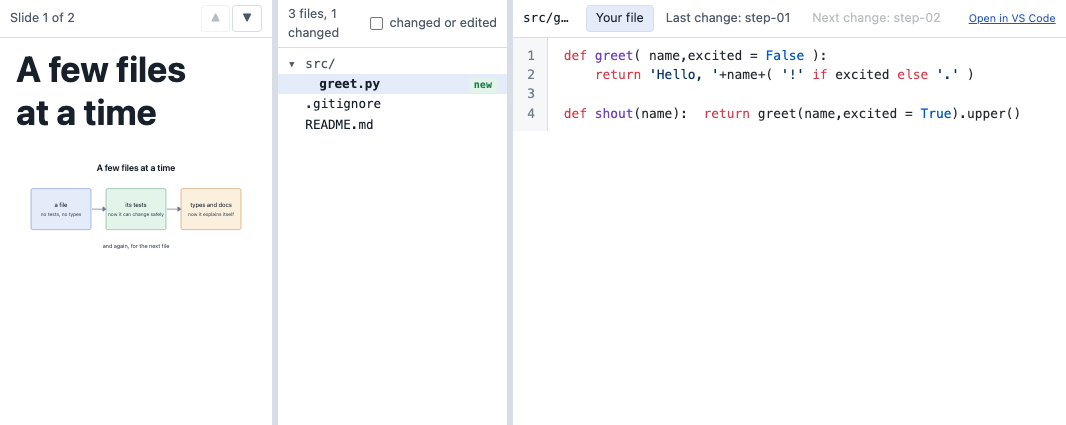
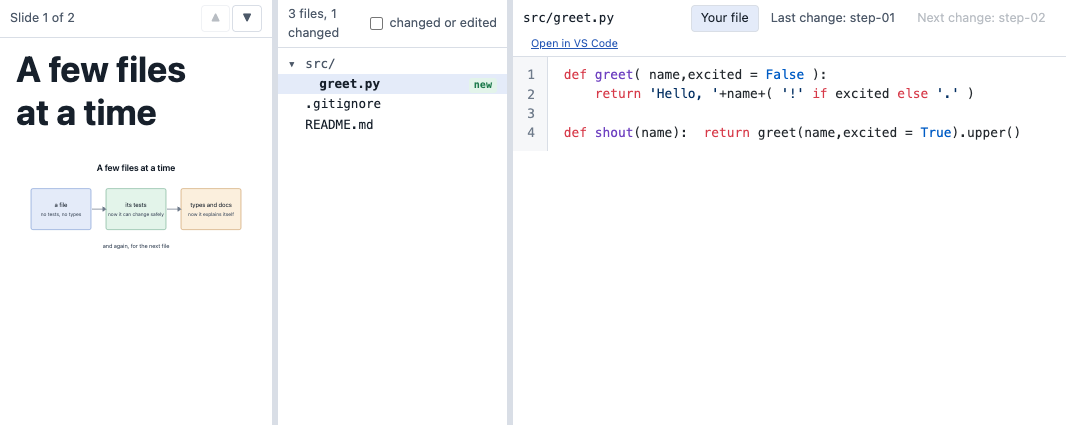
A tutorial's moves go in order, and back is the step's Start
A step starts with just setup, so any step is a safe place to land. A move has no setup of its own: it
builds on what the moves before it did to the environment, so a skip would miss that. So the moves now go
forward one at a time, in both modes, and the server refuses a skip. The way back is the step's Start, then
just setup: the back arrow, Shift+Left and Start check out the tag before the step, after asking about
edits. The moves after the next one are greyed and do nothing; the next move has the one bright button, and
the hints say what to do. Watch mode warns that edits are set aside at the next Show.

Also: the page checks whether the files match on every edits event, the reader's tabs wrap so the path
stays readable, and the docs describe the order.

Coded using Claude

Changed region(s): [[0.4953, 0.0, 0.9906, 0.3365]]

diff --git a/src/timewalk/static/app.js b/src/timewalk/static/app.js
@@ -168,40 +168,64 @@ function drawMoves() {
   row.hidden = !moves.length;
   if (!moves.length) return;
   const watch = mode === "watch";
+  const reached = movesReached();
   const label = document.createElement("span");
   label.className = "label";
   label.textContent = "Moves";
-  const here = moveOnShow();
-  const step = (delta) => (watch ? goMove(Math.min(Math.max((move ?? 0) + delta, 0), moves.length))
-                                 : markDone(Math.min(Math.max(done + delta, 0), moves.length)));
+  // Back goes only to the step's Start, where just setup makes the environment again; forward goes one move at a time.
   const back = document.createElement("button");
   back.className = "nav";
   back.innerHTML = "&#9664;";
-  back.title = watch ? "Show the move before (Shift+Left)" : "Back one move (Shift+Left)";
-  back.disabled = watch ? !move : !done;
-  back.onclick = () => step(-1);
+  back.title = "Back to the step's Start, then run just setup (Shift+Left)";
+  back.disabled = !reached && (watch ? !move : true);
+  back.onclick = () => toStart();
   const forward = document.createElement("button");
   forward.className = "nav";
   forward.innerHTML = "&#9654;";
   forward.title = watch ? "Show the next move's commit (Shift+Right)" : "Mark this move done, and go to the next (Shift+Right)";
-  forward.disabled = watch ? move >= moves.length : done >= moves.length;
-  forward.onclick = () => step(1);
-  const buttons = [{ name: "Start", subject: "Before the first move of this step" }, ...moves].map((m, number) => {
+  forward.disabled = reached >= moves.length;
+  forward.onclick = () => nextMove();
+  const buttons = [{ name: "Start", subject: "The step's start: back here, run just setup" }, ...moves].map((m, number) => {
     const button = document.createElement("button");
     button.textContent = number ? String(number) : "Start";
-    button.title = number ? `${m.name}: ${m.subject}` : m.subject;
-    const isDone = watch ? number < move : number <= done && number > 0;
-    button.className = number === (watch ? move : here) ? "here" : isDone ? "done" : "";
+    button.className = number === 0 ? (reached === 0 ? "here" : "") : number <= reached ? "done" : number === reached + 1 ? "next" : "";
+    if (watch && number === move && number) button.className = "here";
     if (button.className === "here") button.setAttribute("aria-current", "step");
-    // Watch: go to that commit. Do: work on that move, so the ones before it count as done.
-    button.onclick = () => (watch ? goMove(number) : markDone(Math.max(number - 1, 0)));
+    // Only Start and the next move can be reached: the moves go in order, and back is the Start. The move on show
+    // stays bright: it is where you are, not a place you cannot go.
+    const current = button.className === "here";
+    button.disabled = number !== 0 && number !== reached + 1 && !current;
+    button.title = number === 0 ? m.subject : number === reached + 1 ? `${m.name}: ${m.subject}`
+      : number <= reached ? `${m.name}: made. To go back, go to Start` : `${m.name}: after ${moves[reached].name}`;
+    button.onclick = () => (current ? null : number === 0 ? toStart() : nextMove());
     return button;
   });
   const subject = document.createElement("span");
   subject.className = "move-subject";
-  subject.textContent = watch ? (move ? moves[move - 1].subject : `${moves.length} moves to show`)
-    : done >= moves.length ? "Every move is done" : `Now: ${moves[here - 1].name}, ${moves[here - 1].subject.replace(/^[^:]*:\s*/, "")}`;
+  const edited = (ui.tree?.edits || ui.state.edits || []).length;
+  subject.textContent = reached >= moves.length ? "Every move is made"
+    : `Next: ${moves[reached].name}, ${moves[reached].subject.replace(/^[^:]*:\s*/, "")}`
+      + (watch && edited ? ". Your edits will be set aside at the next Show" : "");
   row.replaceChildren(label, back, ...buttons, forward, subject);
+}
+
+/** How many of the step's moves are made: in watch mode the move on show, in do mode the moves marked done. */
+function movesReached() {
+  const { move = 0, done = 0, mode } = ui.state;
+  return mode === "watch" ? move ?? 0 : done;
+}
+
+/** Make the next move: in watch mode show its commit; in do mode mark the move worked on done. */
+function nextMove() {
+  const { moves = [] } = ui.state;
+  const reached = ui.askedMove?.step === ui.state.current ? ui.askedMove.move : ui.askedDone?.step === ui.state.current ? ui.askedDone.done : movesReached();
+  if (reached >= moves.length) return;
+  return ui.state.mode === "watch" ? goMove(reached + 1) : markDone(reached + 1);
+}
+
+/** Back to the step's Start: the code goes back to the step before, edits are asked about, and just setup is the next thing. */
+function toStart() {
+  return goMove(0);   // the notes' hint at the Start says to run just setup
 }
 
 /** A tutorial's mode, beside the walk's kind, at every step: Do, the learner makes each move by hand; Watch, timewalk
@@ -884,14 +908,8 @@ function wireControls() {
       event.preventDefault();
       event.stopPropagation();
       if (event.repeat) return;
-      const delta = event.key === "ArrowRight" ? 1 : -1;
-      if (ui.state.mode === "watch") {
-        const from = ui.askedMove?.step === ui.state.current ? ui.askedMove.move : ui.state.move ?? 0;
-        goMove(Math.min(Math.max(from + delta, 0), ui.state.moves.length));
-      } else {
-        const from = ui.askedDone?.step === ui.state.current ? ui.askedDone.done : ui.state.done ?? 0;
-        markDone(Math.min(Math.max(from + delta, 0), ui.state.moves.length));
-      }
+      if (event.key === "ArrowRight") nextMove();
+      else toStart();   // back is the step's Start, where just setup makes the environment again
       return;
     }
     // Shift+Up and Shift+Down: the first and the last slide of the step. Other keys with Shift are left alone.
@@ -1170,17 +1188,19 @@ function drawNotes() {
   // The prose and the commands, in the order of the notes file: each command is a button where it is written.
   const box = $("notes");
   box.replaceChildren();
-  // In a tutorial, each move has a section. Nothing is locked: in do mode the learner makes each move by hand and marks
-  // it done; in watch mode each move's commit is shown on demand. The commands at the end of a section anchor the move.
+  // In a tutorial, each move has a section, and the moves go in order: a move has no just setup of its own, so it builds
+  // on what the moves before it did. The moves after the next one are greyed and do nothing; back is the step's Start.
+  // The commands at the end of a section anchor the move.
   const { moves = [], move: made = 0, done = 0, mode } = ui.state;
   const watch = mode === "watch";
   const onShow = moveOnShow();
   if (moves.length) {
     const hint = document.createElement("p");
     hint.className = "p-hint";
-    hint.textContent = watch
-      ? `Watch: ${moves.length} moves, each a commit. Press Show on a move, or \u25B6 above, to check out its commit; then run the command at the end of its section.`
-      : `Do: ${moves.length} moves. Make each one by hand from its notes, run the command at its end, then press Done. Lost? Catch me up sets the code to the end of a move.`;
+    const atStart = movesReached() === 0 ? "Run just setup first. " : "";
+    hint.textContent = atStart + (watch
+      ? `Watch: ${moves.length} moves, in order. Press Show \u25B6 on the next move, or \u25B6 above, then run the command at the end of its section. To go back, go to Start and run just setup.`
+      : `Do: ${moves.length} moves, in order. Make the next one by hand from its notes, run the command at its end, then press Done. Lost? Catch me up sets the code to the end of the move you are on. To go back, go to Start and run just setup.`);
     box.append(hint);
   }
   let into = box;       // where the parts go: the notes, or the section of a move
@@ -1205,8 +1225,10 @@ function drawNotes() {
       files = number ? moves[number - 1].files : [];
       owner = number;
       into = document.createElement("section");
-      const state = !number ? "" : watch ? (number === made ? "here" : number < made ? "done" : "ahead")
-        : number === onShow && done < moves.length ? "here" : number <= done ? "done" : "";
+      const reached = watch ? made : done;
+      const state = !number ? "" : watch
+        ? (number === made ? "here" : number < made ? "done" : number === made + 1 ? "next" : "later")
+        : (number <= done ? "done" : number === done + 1 ? "here" : "later");
       into.className = "p-move " + state;
       into.dataset.move = String(number);
       const head = document.createElement("div");
@@ -1225,10 +1247,16 @@ function drawNotes() {
           button.onclick = onclick;
           actions.append(button);
         };
-        if (watch && number !== made) action("Show \u25B6", `Check out ${part.name}'s commit, in every window`, () => goMove(number), true);
+        // Only the next move has buttons: Show in watch mode; Done and Catch me up in do mode. The order is the rule.
+        if (watch && number === reached + 1) action("Show \u25B6", `Check out ${part.name}'s commit, in every window`, () => goMove(number), true);
         if (!watch && state === "here") action("Done \u2713", "I made this move: go to the next", () => markDone(number), true);
-        if (!watch && number <= done) action("Not done", "Mark this move as not done yet", () => markDone(number - 1));
-        if (!watch) action("Catch me up", `Set the code to the end of ${part.name}. Your edits are asked about first, and kept`, () => goMove(number));
+        if (!watch && state === "here") action("Catch me up", `Set the code to the end of ${part.name}. Your edits are asked about first, and kept`, () => goMove(number));
+        if (state === "later") {
+          const after = document.createElement("span");
+          after.className = "p-after";
+          after.textContent = `after ${moves[reached]?.name}`;
+          actions.append(after);
+        }
         head.append(actions);
       }
       into.append(head);
@@ -1256,10 +1284,12 @@ function drawNotes() {
     group.append(commandButton(part));
   }
   markAnchor(into);
+  // A move after the next one waits: its commands, items and buttons do nothing until the moves before it are made.
+  for (const button of box.querySelectorAll(".p-move.later button")) button.disabled = true;
   // When the move on show changes, scroll the notes, and only the notes, to its section, in every window alike. A window
   // with the notes hidden does it when they show.
   const step = here?.name ?? null;
-  const section = box.querySelector(".p-move.here");
+  const section = box.querySelector(".p-move.here") || box.querySelector(".p-move.next");
   const scroller = $("notes-body");
   const key = `${step} ${mode} ${watch ? made : onShow}`;
   if (moves.length && section && scroller.offsetParent && ui.drawnMove !== key) {
@@ -1495,6 +1525,7 @@ const events = onEvents(async (event) => {
     await refresh();
   }
   if (event.type === "edits") {
+    checkMatch();   // edits are often a move being made: no need to wait for the next poll
     await loadTree();
     if (ui.open) await openFile(ui.open, ui.view, false, ui.of, ui.at, ui.marks);
   }

diff --git a/src/timewalk/static/app.css b/src/timewalk/static/app.css
@@ -114,7 +114,10 @@ body.has-moves .bar { flex-wrap: wrap; row-gap: 6px; }
 .p-move.here { border-left-color: var(--accent); }
 .p-move.done { border-left-color: var(--accent-soft); }
 .p-move.done h3::before { content: "\2713  "; color: var(--accent); }
-.p-move.ahead > :not(.p-move-head) { opacity: 0.7; }
+.p-move.next { border-left: 3px dashed var(--accent); }
+.p-move.later { opacity: 0.45; }
+.p-after { font-size: 0.8em; color: var(--ink-3); }
+.moves button.next { border-color: var(--accent); }
 .p-move-head { display: flex; align-items: baseline; gap: 8px; flex-wrap: wrap; }
 .p-move h3 { font-family: var(--mono); font-size: 0.95em; margin: 0.4em 0; flex: 1; min-width: 12em; }
 .p-move-actions { display: flex; gap: 4px; flex: none; }
@@ -138,6 +141,10 @@ body.has-moves .bar { flex-wrap: wrap; row-gap: 6px; }
 .p-match { display: block; margin: 0 0 4px; }
 .apply-bar { display: flex; gap: 8px; align-items: center; flex-wrap: wrap; padding: 4px 10px; border-bottom: 1px solid var(--rule); background: var(--bg); }
 .apply-note { font-size: 0.85em; color: var(--ink-2); flex: 1; min-width: 12em; }
+/* The reader's head: the path keeps room, and the tabs wrap to a second line when the labels are long. */
+.file-pane .pane-head { flex-wrap: wrap; row-gap: 4px; }
+.file-pane .file-path { min-width: 10em; }
+.file-pane .views { flex-wrap: wrap; }
 .open-editor { font-size: 0.85em; margin-left: 8px; color: var(--accent); white-space: nowrap; }
 .p-hint { font-size: 0.88em; color: var(--ink-2); background: var(--bg); border: 1px dashed var(--rule); border-radius: 6px; padding: 6px 10px; }
 .move-modes { display: inline-flex; flex: none; border: 1px solid var(--rule); border-radius: 6px; overflow: hidden; margin-left: -10px; }

diff --git a/src/timewalk/__init__.py b/src/timewalk/__init__.py
@@ -1387,6 +1387,8 @@ def make_app(
         to, number = int(body["to"]), body.get("move")
         if body.get("name") is not None and not (0 <= to < len(repo.steps) and repo.steps[to].name == body["name"]):
             raise GitError(f"the steps changed while you asked for {body['name']}; ask again")  # another window changed the walk
+        if number is not None:
+            check_move_order(to, int(number))
         repo.move(to, set_aside=bool(body.get("set_aside")), move=int(number) if number is not None else None)
         # A move to a step starts it with no move done; a move to a move (watch mode, or Catch me up) has made that many.
         showing["done"] = int(number) if number is not None else 0
@@ -1444,6 +1446,24 @@ def make_app(
                 term.refresh_prompt()
         return repo.state()
 
+    def check_move_order(
+        index: int,  # The step of the move asked for
+        number: int,  # The move asked for; 0 is the step's Start
+    ) -> None:
+        """Keep a tutorial's moves in order: forward one move at a time, and back only to the step's Start.
+
+        A step starts with `just setup`, so any step is a safe place to land; a move has no setup of its own, so it
+        builds on the environment that the moves before it left. A skip would miss what a move did to it.
+        """
+        step_now, move_now = repo.position()
+        reached = (move_now or 0) if showing["mode"] == "watch" else showing["done"]
+        if number == 0 or (step_now == index and number in (reached, reached + 1)):
+            return
+        if step_now != index:
+            raise GitError(f"a step starts at its Start: go to {repo.steps[index].name} first")
+        nxt = repo.moves[index][reached].name if reached < len(repo.moves[index]) else "none"
+        raise GitError(f"the moves go in order: the next is {nxt}. To go back, go to the step's Start and run just setup")
+
     @guarded
     async def mark_done(request: Request) -> dict:
         "In do mode, mark how many of the step's moves the learner has made. The code does not move; with sync, the slides follow."
@@ -1452,7 +1472,11 @@ def make_app(
             raise GitError(f"the step changed while you marked a move of {body.get('step')}; mark it again")
         index = repo.current()
         moves = repo.moves[index] if index is not None else []
-        showing["done"] = min(max(int(body.get("done", 0)), 0), len(moves))
+        wanted = int(body.get("done", 0))
+        if wanted not in (showing["done"], showing["done"] + 1):
+            # Done goes forward one move at a time. Back is the step's Start, which also puts the code back.
+            raise GitError("Done goes one move at a time. To go back, go to the step's Start and run just setup")
+        showing["done"] = min(max(wanted, 0), len(moves))
         remember(showing["step"], done=showing["done"])
         if moves and synced():
             owners = deck_now()[1]
@@ -1473,7 +1497,7 @@ def make_app(
         index, number = repo.position()
         owner = owners[to] if to < len(owners) else 0
         # In watch mode, a slide of another move shows that move. In do mode the learner moves the code, so slides do not.
-        if index is not None and number is not None and owner and owner != number and synced() and showing["mode"] == "watch":
+        if index is not None and number is not None and owner and owner > number and synced() and showing["mode"] == "watch":
             if owner > number + 1:
                 # That slide is past the next move: make the next move only, and show its first slide, or stay if it has none.
                 owner = number + 1

diff --git a/tests/test_timewalk.py b/tests/test_timewalk.py
@@ -1568,11 +1568,11 @@ def test_catch_me_up_sets_the_code_to_the_end_of_a_move(tutored: TestClient, tut
     auth = {"t": TOKEN}
     tutored.post("/api/move", params=auth, json={"to": 1})
     (tutorial.work / "README.md").write_text("my own try\n")
-    refused = tutored.post("/api/move", params=auth, json={"to": 1, "name": "step-01", "move": 2})
+    refused = tutored.post("/api/move", params=auth, json={"to": 1, "name": "step-01", "move": 1})
     assert refused.status_code == 409 and refused.json()["edits"]
-    assert tutored.post("/api/move", params=auth, json={"to": 1, "name": "step-01", "move": 2, "set_aside": True}).status_code == 200
+    assert tutored.post("/api/move", params=auth, json={"to": 1, "name": "step-01", "move": 1, "set_aside": True}).status_code == 200
     state = tutored.get("/api/state", params=auth).json()
-    assert (state["move"], state["done"]) == (2, 2)
+    assert (state["move"], state["done"]) == (1, 1)
     assert "timewalk: edits made at step-01" in run_git(tutorial.work, "stash", "list")
 
 
@@ -1851,7 +1851,8 @@ def test_the_two_tabs_and_a_file_as_a_move_leaves_it(tutored: TestClient) -> Non
     changes = tutored.get("/api/state", params=auth).json()["changes"]
     assert (changes["last"]["name"], changes["next"]["name"]) == ("step-01.1", "step-01.2")
     tutored.post("/api/show", params=auth, json={"mode": "watch"})
-    tutored.post("/api/move", params=auth, json={"to": 1, "move": 3})
+    for number in (1, 2, 3):   # watch mode follows the code, which do mode left at the Start
+        assert tutored.post("/api/move", params=auth, json={"to": 1, "move": number}).status_code == 200
     changes = tutored.get("/api/state", params=auth).json()["changes"]
     assert changes["last"]["name"] == "step-01.3" and changes["next"] is None, "the last move of a step: nothing next"
 
@@ -1910,3 +1911,22 @@ def test_an_item_naming_another_moves_name_is_checked(tutorial: timewalk.Repo, t
     _, warnings = check(load_toc(tutorial_class / "toc.toml"), tutorial.main, tutorial_class)
     assert any("names step-09.9, which is not a move of the walk" in w for w in warnings)
     assert not any("a.txt" in w for w in warnings)
+
+
+def test_moves_go_in_order_and_back_is_the_start(tutored: TestClient, tutorial: timewalk.Repo) -> None:
+    "A move has no just setup of its own: forward one move at a time, in both modes; back only to the step's Start."
+    auth = {"t": TOKEN}
+    tutored.post("/api/move", params=auth, json={"to": 1})
+    skip = tutored.post("/api/move", params=auth, json={"to": 1, "move": 2})
+    assert skip.status_code == 409 and "the next is step-01.1" in skip.json()["error"]
+    assert tutored.post("/api/done", params=auth, json={"step": "step-01", "done": 2}).status_code == 409, "Done skips nothing"
+    assert tutored.post("/api/done", params=auth, json={"step": "step-01", "done": 1}).status_code == 200
+    assert tutored.post("/api/done", params=auth, json={"step": "step-01", "done": 0}).status_code == 409, "back is the Start"
+    tutored.post("/api/show", params=auth, json={"mode": "watch"})
+    tutored.post("/api/move", params=auth, json={"to": 1, "move": 1})
+    tutored.post("/api/move", params=auth, json={"to": 1, "move": 2})
+    assert tutored.post("/api/move", params=auth, json={"to": 1, "move": 1}).status_code == 409, "not back one move"
+    assert tutored.post("/api/move", params=auth, json={"to": 1, "move": 0}).status_code == 200, "back to the Start"
+    state = tutored.get("/api/state", params=auth).json()
+    assert (state["move"], state["done"]) == (0, 0)
+    assert run_git(tutorial.work, "rev-parse", "HEAD") == tutorial.steps[0].sha

diff --git a/docs/walks.md b/docs/walks.md
@@ -247,8 +247,12 @@ In do mode, each move section has these buttons:
 | Button | Does |
 |---|---|
 | **Done ✓** | On the move that the learner works on: marks it done, and goes on to the next move. The code does not move |
-| **Not done** | On a move marked done: marks it, and the moves after it, as not done |
-| **Catch me up** | Checks out the commit at the end of that move, in every window. If the replay copy has edits, the page asks first, and then stashes them. It never discards them |
+| **Catch me up** | On the move that the learner works on: checks out the commit at the end of that move, in every window. If the replay copy has edits, the page asks first, and then stashes them. It never discards them |
+
+The moves go in order, in both modes. A step starts with `just setup`, so any step is a safe place to
+start. A move has no setup of its own, so it builds on what the moves before it did to the environment. A
+skip would miss that. So the moves after the next one are grey, and their buttons, commands and items do
+nothing. The way back is the step's **Start**, and then `just setup`.
 
 An item under `files:` opens the change of its move in the reader, even before the file exists. In do
 mode, the reader then shows the change in the tab **Next change**, with an **Apply** bar. See
@@ -256,8 +260,9 @@ mode, the reader then shows the change in the tab **Next change**, with an **App
 
 ![A tutorial in watch mode after Show on the first move: the commit of step-02.1 checked out, the hint at the top of the notes, and the slide of the move](images/tutorial-watch.png)
 
-In watch mode, each move section that is not on show has a **Show ▶** button. It checks out the commit of
-that move, in every window. Any move can be reached, and no move is locked.
+In watch mode, the next move has a **Show ▶** button. It checks out the commit of that move, in every
+window. If the replay copy has edits, the page asks first, and then stashes them. With `--discard-edits`, the
+edits are dropped.
 
 ### Moves on the page
 
@@ -268,9 +273,11 @@ first move. Beside the buttons, the row shows the move on show and its subject.
 | Control | In do mode | In watch mode |
 |---|---|---|
 | **▶**, or Shift+Right | Marks the move done, and goes to the next | Checks out the commit of the next move |
-| **◀**, or Shift+Left | Marks the last move done as not done | Checks out the commit of the move before |
-| **1**, **2** | Works on that move: the moves before it count as done | Checks out the commit of that move |
-| **Start** | Marks no move done | Checks out the tag before the step |
+| **◀**, or Shift+Left, or **Start** | Checks out the tag before the step, after asking about edits, and marks no move done | Checks out the tag before the step |
+| The number of the next move | The same as **▶** | The same as **▶** |
+| Other numbers | Do nothing: the moves go in order | Do nothing: the moves go in order |
+
+After **Start**, run `just setup`, as the hint at the top of the notes says.
 
 - **In a terminal,** use Alt with Shift+Right and Shift+Left.
 - **Right and Left** go to the next or the previous step, as in a narrative.
@@ -376,8 +383,8 @@ that the learner works on. The answer shows on the section of that move, and in 
 - **"Your files match step-02.3 ✓"** when every file is the same as in the commit.
 - **"2 files differ from step-02.3: a.py, b.py"** with the names of the files that differ.
 
-A match marks the move done by itself. It does so once for each move, so if the learner then presses
-**Not done**, the move stays not done. Only your own window marks the move, and never the Room window.
+A match marks the move done by itself, once for each move. Only your own window marks the move, and never
+the Room window.
 
 The comparison is by content. It takes every file that differs between HEAD and the commit of the
 move, and every file with edits. A new file of the move counts, even when git does not track it yet. The

diff --git a/docs/model.md b/docs/model.md
@@ -89,7 +89,7 @@ then happen, in this order:
 | **Set the edits aside and move** | Stashes the edits with the name of the step, then moves | `git stash push -m "timewalk: edits made at step-NN"`, in the replay copy |
 | A move, with `--discard-edits` | Moves and does not ask. Edits to tracked files are lost. Commits of a learner are kept | `git checkout --force -B timewalk/replay <step>`, in the replay copy |
 | In a tutorial, **Show ▶**, **Catch me up**, or a move button in watch mode | Moves to the commit of a move, as a step button does | The same, with the commit of the move |
-| In a tutorial, **Done ✓**, **Not done**, or a move button in do mode | Changes the shared count of moves done. The code does not move | None |
+| In a tutorial, **Done ✓**, or the button of the next move in do mode | Changes the shared count of moves done. The code does not move | None |
 | In a tutorial, **Do** or **Watch** | Changes the shared mode, in every window | None |
 | **Up**, **Down**, the slide arrows | Changes the shared slide number. On a document, **Up** and **Down** scroll it, and Alt with **Up** or **Down** changes the slide | None |
 | **Show**: **Slides**, **Both**, **Code** | Changes the shared layout, in every window | None |

diff --git a/docs/reference.md b/docs/reference.md
@@ -187,8 +187,7 @@ Add these to the address that timewalk prints, after the token, with `&`.
 | Up, Down | Previous or next slide, when there is more than one. On a document, or with one slide, they scroll |
 | Alt with an arrow | Moves the step or the slide, even inside a terminal or on a document |
 | Shift+Up, Shift+Down | The first or the last slide of the step |
-| Shift+Right, Shift+Left | In a tutorial, do mode: marks the move done and goes to the next, or marks the last move done as not done. The code does not move |
-| Shift+Right, Shift+Left | In a tutorial, watch mode: checks out the commit of the next or the previous move |
+| Shift+Right, Shift+Left | In a tutorial: the next move (do mode: marks it done, and the code does not move; watch mode: checks out its commit), or back to the step's Start, which checks out the tag before the step |
 | Alt+Shift+Right, Alt+Shift+Left | The same, inside a terminal |
 | Home, End | The top or the bottom of the slide, the file or the notes under the mouse |
 | Alt+Enter | **Shell** on or off, in every window |

diff --git a/docs/page.md b/docs/page.md
@@ -233,7 +233,7 @@ Without a window for the class, Shell mode keeps that rule too.
 | Up, Down | The previous or next slide, when the step has more than one. On a document, or with one slide, they scroll |
 | Alt with an arrow | Moves the step or the slide, from anywhere, a terminal included |
 | Shift+Up, Shift+Down | The first or the last slide of the step |
-| Shift+Right, Shift+Left | In a tutorial, do mode: marks the move done, or not done. Watch mode: checks out the next or the previous move. In a terminal, add Alt |
+| Shift+Right, Shift+Left | In a tutorial: the next move (do mode: marks it done; watch mode: checks out its commit), or back to the step's Start. In a terminal, add Alt |
 | Home, End | The top or the bottom of the slide, the file or the notes under the mouse |
 | Alt+Enter | **Shell** on or off |
 | Alt+1, Alt+2, Alt+3 | **Slides**, **Both**, **Code** |
